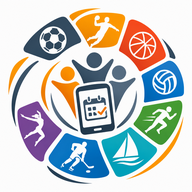
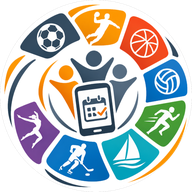
Portail prof 1.28.0 : icônes détourées, ajout StepSuivi Prof
Claude-Session: https://claude.ai/code/session_01DWMzvDjuQqdn6i5FnQMur8

diff --git a/version.js b/version.js
@@ -1,1 +1,1 @@
-const APP_VERSION="1.27.1"; // ← seul endroit à modifier pour changer la version
+const APP_VERSION="1.28.0"; // ← seul endroit à modifier pour changer la version
